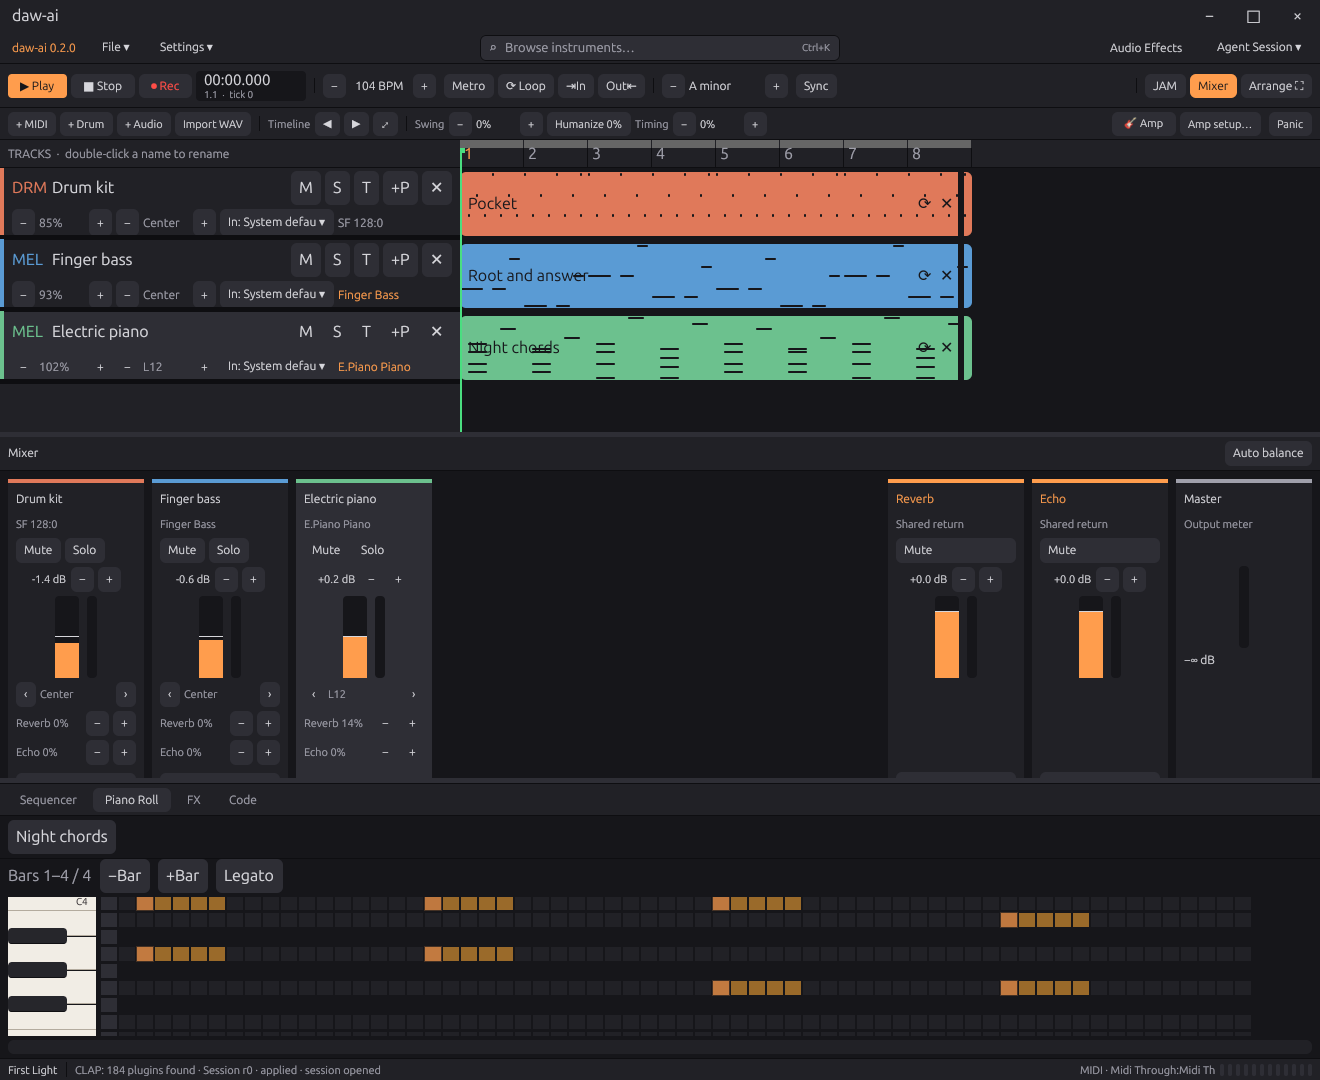
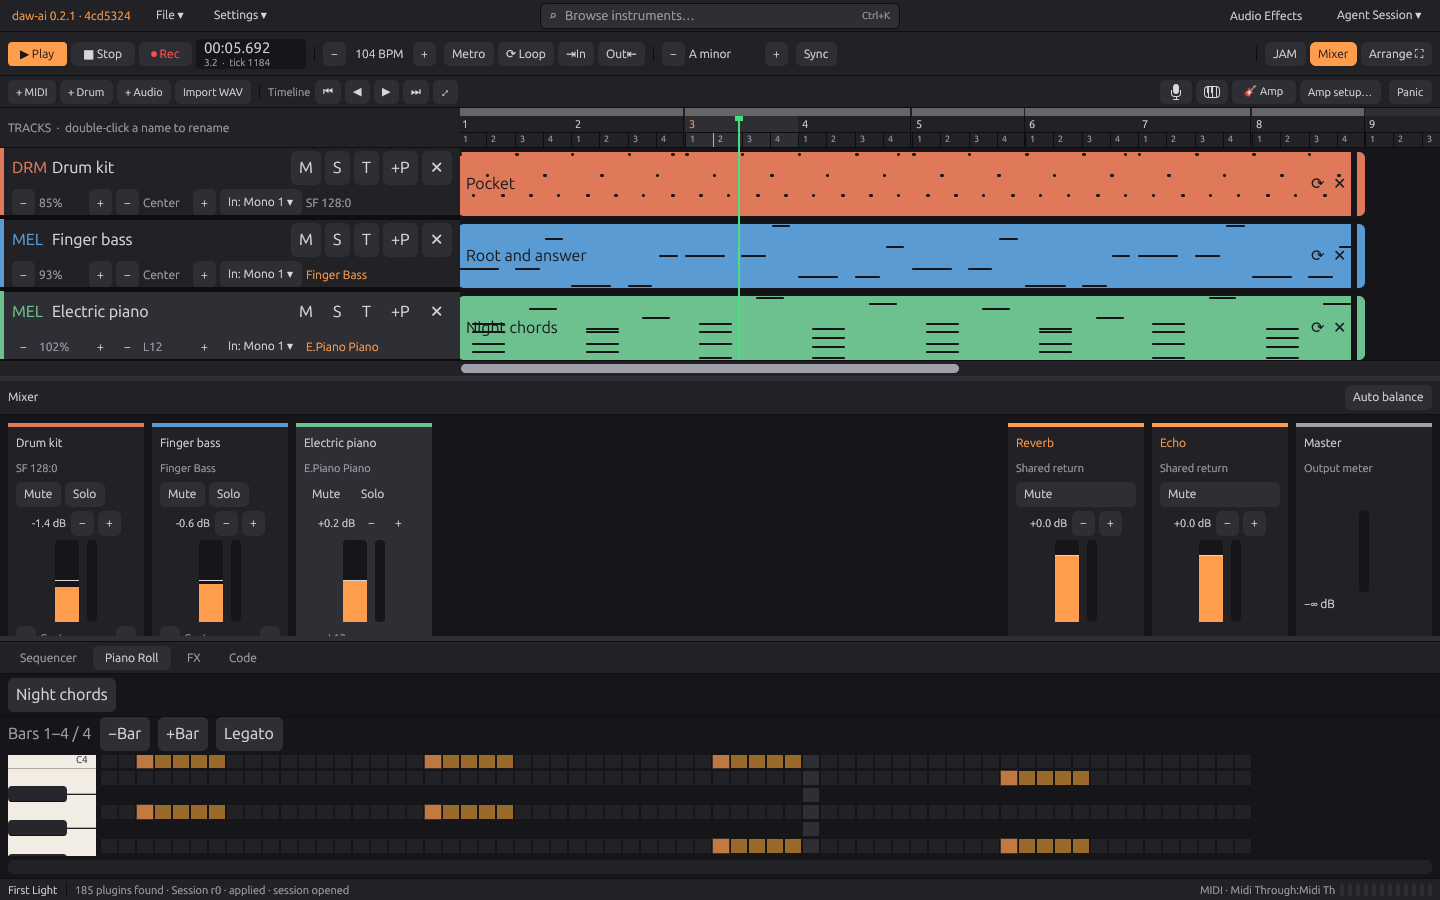
docs: Refresh the desktop workspace screenshots
Show First Light in the dark and white themes and document the timeline,
device setup, and timing controls in the current desktop layout.

diff --git a/README.md b/README.md
@@ -9,7 +9,7 @@ GUI, terminal UI, and an MCP server that lets AI agents compose, mix, and
 ![Plugins](https://img.shields.io/badge/plugins-CLAP-purple)
 ![AI](https://img.shields.io/badge/agents-MCP-green)
 
-![The First Light demo with its arrangement, mixer, and piano roll visible](assets/screenshots/desktop-workspace.png)
+![First Light in the dark theme with the beat ruler, mixer, and piano roll visible](assets/screenshots/desktop-workspace.png)
 
 ## Why this exists
 
@@ -66,15 +66,24 @@ run `cargo run --release --locked -- examples/quickstart.daw.json --export-wav f
 
 ## Desktop workspace
 
-The transport groups playback, tempo, loop and recording controls beside the
-millisecond clock. Open **Mixer** to show channel strips below the arrangement,
-then use the lower tabs for the Piano Roll, Sequencer or FX. Drag the horizontal
-dividers to resize the panels, or choose **Arrange ⛶** for more timeline space.
+Click the bar or beat ruler to place the playhead exactly where playback should
+start. Use the **Timeline** controls to scroll to the start or end of the song,
+or move the view four bars at a time. Hold **Ctrl** while scrolling to zoom around
+the pointer.
+
+Open **Mixer** to show channel strips below the arrangement. Edit notes in the
+**Piano Roll** or **Sequencer**, and adjust **Swing**, **Humanize**, and **Timing**
+in **FX**. Drag the panel dividers to resize them, or choose **Arrange ⛶** for more
+timeline space.
+
+Use the microphone and keyboard icons beside **Amp setup** to configure your
+audio input and MIDI controller. Switch between **Dark** and **White** in
+**Settings → Appearance**.
 
 Hover over **Browse instruments…** or press **Ctrl+K** to search SoundFont and
 CLAP instruments for the selected track.
 
-![The centered instrument browser open over the First Light desktop workspace](assets/screenshots/instrument-browser.png)
+![The instrument browser open over First Light in the white theme](assets/screenshots/instrument-browser.png)
 
 ### Import a Flow Music plugin
 
